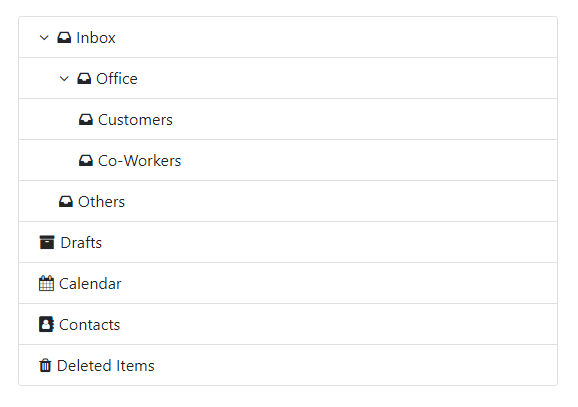
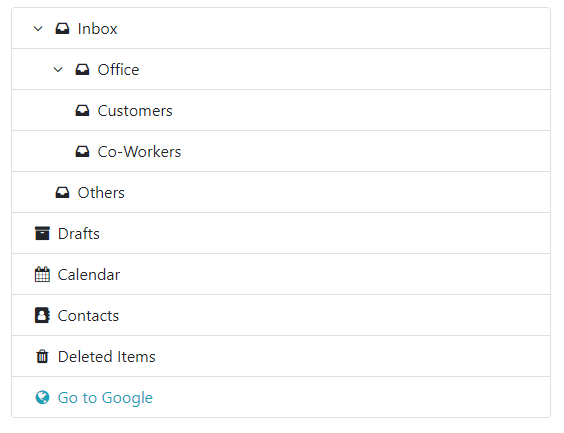
Version 1.2.0

Changed region(s): [[0.0603, 0.2359, 0.3316, 0.855], [0.0301, 0.8845, 0.9645, 0.973], [0.0603, 0.0295, 0.2411, 0.2064]]

diff --git a/dist/js/bstreeview.min.js b/dist/js/bstreeview.min.js
@@ -1,14 +1,10 @@
 /*
  @preserve
  bstreeview.js
- Version: 1.0.0
+ Version: 1.2.0
  Authors: Sami CHNITER <sami.chniter@gmail.com>
  Copyright 2020
  License: Apache License 2.0
-
  Project: https://github.com/chniter/bstreeview
 */
-(function(a,m,n,p){function g(b,f){this.element=b;this.itemIdPrefix=b.id+"-item-";this.settings=a.extend({},l,f);this.init()}var l={expandIcon:"fa fa-angle-down",collapseIcon:"fa fa-angle-right",indent:1.25};a.extend(g.prototype,{init:function(){this.tree=[];this.nodes=[];this.settings.data&&(this.settings.data=a.parseJSON(this.settings.data),this.tree=a.extend(!0,[],this.settings.data),delete this.settings.data);a(this.element).addClass("bstreeview");this.initData({nodes:this.tree});var b=this;this.build(a(this.element),
-this.tree,0);a(".bstreeview").on("click",".list-group-item",function(){a(".state-icon",this).toggleClass(b.settings.expandIcon).toggleClass(b.settings.collapseIcon)})},initData:function(b){if(b.nodes){var f=this;a.each(b.nodes,function(a,c){c.nodeId=f.nodes.length;c.parentId=b.nodeId;f.nodes.push(c);c.nodes&&f.initData(c)})}},build:function(b,f,h){var c=this,g="1.25rem;";0<h&&(g=(c.settings.indent+h*c.settings.indent).toString()+"rem;");h+=1;a.each(f,function(f,d){var e=a('<div href="#itemid" class="list-group-item" data-toggle="collapse"></div>').attr("href",
-"#"+c.itemIdPrefix+d.nodeId).attr("style","padding-left:"+g);if(d.nodes){var k=a('<i class="state-icon"></i>').addClass(c.settings.collapseIcon);e.append(k)}d.icon&&(k=a('<i class="item-icon"></i>').addClass(d.icon),e.append(k));e.append(d.text);d.href&&e.attr("href",d.href);d["class"]&&e.addClass(d["class"]);b.append(e);d.nodes&&(e=a('<div class="list-group collapse" id="itemid"></div>').attr("id",c.itemIdPrefix+d.nodeId),b.append(e),c.build(e,d.nodes,h))})}});a.fn.bstreeview=function(b){return this.each(function(){a.data(this,
-"plugin_bstreeview")||a.data(this,"plugin_bstreeview",new g(this,b))})}})(jQuery,window,document);
+!function (t, e, i, s) { "use strict"; var n = { expandIcon: "fa fa-angle-down fa-fw", collapseIcon: "fa fa-angle-right fa-fw", indent: 1.25, parentsMarginLeft: "1.25rem", openNodeLinkOnNewTab: !0 }, a = '<div role="treeitem" class="list-group-item" data-toggle="collapse"></div>', d = '<div role="group" class="list-group collapse" id="itemid"></div>', o = '<i class="state-icon"></i>', r = '<i class="item-icon"></i>'; function l(e, i) { this.element = e, this.itemIdPrefix = e.id + "-item-", this.settings = t.extend({}, n, i), this.init() } t.extend(l.prototype, { init: function () { this.tree = [], this.nodes = [], this.settings.data && (this.settings.data.isPrototypeOf(String) && (this.settings.data = t.parseJSON(this.settings.data)), this.tree = t.extend(!0, [], this.settings.data), delete this.settings.data), t(this.element).addClass("bstreeview"), this.initData({ nodes: this.tree }); var i = this; this.build(t(this.element), this.tree, 0), t(this.element).on("click", ".list-group-item", function (s) { t(".state-icon", this).toggleClass(i.settings.expandIcon).toggleClass(i.settings.collapseIcon), s.target.hasAttribute("href") && (i.settings.openNodeLinkOnNewTab ? e.open(s.target.getAttribute("href"), "_blank") : e.location = s.target.getAttribute("href")) }) }, initData: function (e) { if (e.nodes) { var i = e, s = this; t.each(e.nodes, function (t, e) { e.nodeId = s.nodes.length, e.parentId = i.nodeId, s.nodes.push(e), e.nodes && s.initData(e) }) } }, build: function (e, i, s) { var n = this, l = n.settings.parentsMarginLeft; s > 0 && (l = (n.settings.indent + s * n.settings.indent).toString() + "rem;"), s += 1, t.each(i, function (i, g) { var h = t(a).attr("data-target", "#" + n.itemIdPrefix + g.nodeId).attr("style", "padding-left:" + l).attr("aria-level", s); if (g.nodes) { var c = t(o).addClass(n.settings.collapseIcon); h.append(c) } if (g.icon) { var f = t(r).addClass(g.icon); h.append(f) } if (h.append(g.text), g.href && h.attr("href", g.href), g.class && h.addClass(g.class), g.id && h.attr("id", g.id), e.append(h), g.nodes) { var p = t(d).attr("id", n.itemIdPrefix + g.nodeId); e.append(p), n.build(p, g.nodes, s) } }) } }), t.fn.bstreeview = function (e) { return this.each(function () { t.data(this, "plugin_bstreeview") || t.data(this, "plugin_bstreeview", new l(this, e)) }) } }(jQuery, window, document);

diff --git a/src/js/bstreeview.js b/src/js/bstreeview.js
@@ -1,6 +1,6 @@
 /*! @preserve
  * bstreeview.js
- * Version: 1.0.0
+ * Version: 1.2.0
  * Authors: Sami CHNITER <sami.chniter@gmail.com>
  * Copyright 2020
  * License: Apache License 2.0
@@ -14,17 +14,20 @@
      */
     var pluginName = "bstreeview",
         defaults = {
-            expandIcon: 'fa fa-angle-down',
-            collapseIcon: 'fa fa-angle-right',
-            indent: 1.25
+            expandIcon: 'fa fa-angle-down fa-fw',
+            collapseIcon: 'fa fa-angle-right fa-fw',
+            indent: 1.25,
+            parentsMarginLeft: '1.25rem',
+            openNodeLinkOnNewTab: true
+
         };
     /**
      * bstreeview HTML templates.
      */
     var templates = {
         treeview: '<div class="bstreeview"></div>',
-        treeviewItem: '<div href="#itemid" class="list-group-item" data-toggle="collapse"></div>',
-        treeviewGroupItem: '<div class="list-group collapse" id="itemid"></div>',
+        treeviewItem: '<div role="treeitem" class="list-group-item" data-toggle="collapse"></div>',
+        treeviewGroupItem: '<div role="group" class="list-group collapse" id="itemid"></div>',
         treeviewItemStateIcon: '<i class="state-icon"></i>',
         treeviewItemIcon: '<i class="item-icon"></i>'
     };
@@ -64,10 +67,19 @@
             var _this = this;
             this.build($(this.element), this.tree, 0);
             // Update angle icon on collapse
-            $(this.element).on('click', '.list-group-item', function () {
+            $(this.element).on('click', '.list-group-item', function (e) {
                 $('.state-icon', this)
                     .toggleClass(_this.settings.expandIcon)
                     .toggleClass(_this.settings.collapseIcon);
+                // navigate to href if present
+                if (e.target.hasAttribute('href')) {
+                    if (_this.settings.openNodeLinkOnNewTab) {
+                        window.open(e.target.getAttribute('href'), '_blank');
+                    }
+                    else {
+                        window.location = e.target.getAttribute('href');
+                    }
+                }
             });
         },
         /**
@@ -98,7 +110,8 @@
         build: function (parentElement, nodes, depth) {
             var _this = this;
             // Calculate item padding.
-            var leftPadding = "1.25rem;";
+            var leftPadding = _this.settings.parentsMarginLeft;
+
             if (depth > 0) {
                 leftPadding = (_this.settings.indent + depth * _this.settings.indent).toString() + "rem;";
             }
@@ -107,8 +120,9 @@
             $.each(nodes, function addNodes(id, node) {
                 // Main node element.
                 var treeItem = $(templates.treeviewItem)
-                    .attr('href', "#" + _this.itemIdPrefix + node.nodeId)
-                    .attr('style', 'padding-left:' + leftPadding);
+                    .attr('data-target', "#" + _this.itemIdPrefix + node.nodeId)
+                    .attr('style', 'padding-left:' + leftPadding)
+                    .attr('aria-level', depth);
                 // Set Expand and Collapse icones.
                 if (node.nodes) {
                     var treeItemStateIcon = $(templates.treeviewItemStateIcon)
@@ -123,17 +137,18 @@
                 }
                 // Set node Text.
                 treeItem.append(node.text);
-
                 // Reset node href if present
                 if (node.href) {
                     treeItem.attr('href', node.href);
                 }
-
                 // Add class to node if present
                 if (node.class) {
                     treeItem.addClass(node.class);
                 }
-
+                // Add custom id to node if present
+                if (node.id) {
+                    treeItem.attr('id', node.id);
+                }
                 // Attach node to parent.
                 parentElement.append(treeItem);
                 // Build child nodes.

diff --git a/src/index.html b/src/index.html
@@ -1,10 +1,13 @@
-<html>
-
+<!doctype html>
+<html lang="en">
 <head>
+	<meta charset="utf-8">
+	<meta name="viewport" content="width=device-width, initial-scale=1, shrink-to-fit=no">
+	<title>bstreeview</title>
 	<link href="https://stackpath.bootstrapcdn.com/bootstrap/4.4.1/css/bootstrap.min.css" rel="stylesheet"
-		integrity="sha384-Vkoo8x4CGsO3+Hhxv8T/Q5PaXtkKtu6ug5TOeNV6gBiFeWPGFN9MuhOf23Q9Ifjh" crossorigin="anonymous">
+		  integrity="sha384-Vkoo8x4CGsO3+Hhxv8T/Q5PaXtkKtu6ug5TOeNV6gBiFeWPGFN9MuhOf23Q9Ifjh" crossorigin="anonymous">
 	<link href="https://stackpath.bootstrapcdn.com/font-awesome/4.7.0/css/font-awesome.min.css" rel="stylesheet"
-		integrity="sha384-wvfXpqpZZVQGK6TAh5PVlGOfQNHSoD2xbE+QkPxCAFlNEevoEH3Sl0sibVcOQVnN" crossorigin="anonymous">
+		  integrity="sha384-wvfXpqpZZVQGK6TAh5PVlGOfQNHSoD2xbE+QkPxCAFlNEevoEH3Sl0sibVcOQVnN" crossorigin="anonymous">
 	<link href="css/bstreeview.css" rel="stylesheet">
 </head>
 
@@ -21,10 +24,10 @@
 		</div>
 	</div>
 	<script src="https://code.jquery.com/jquery-3.4.1.min.js"
-		integrity="sha256-CSXorXvZcTkaix6Yvo6HppcZGetbYMGWSFlBw8HfCJo=" crossorigin="anonymous"></script>
+			integrity="sha256-CSXorXvZcTkaix6Yvo6HppcZGetbYMGWSFlBw8HfCJo=" crossorigin="anonymous"></script>
 	<script src="https://stackpath.bootstrapcdn.com/bootstrap/4.4.1/js/bootstrap.min.js"
-		integrity="sha384-wfSDF2E50Y2D1uUdj0O3uMBJnjuUD4Ih7YwaYd1iqfktj0Uod8GCExl3Og8ifwB6"
-		crossorigin="anonymous"></script>
+			integrity="sha384-wfSDF2E50Y2D1uUdj0O3uMBJnjuUD4Ih7YwaYd1iqfktj0Uod8GCExl3Og8ifwB6"
+			crossorigin="anonymous"></script>
 
 	<script src="js/bstreeview.js">
 	</script>
@@ -34,48 +37,60 @@
 			var json = [
 				{
 					text: "Inbox",
-					icon: "fa fa-inbox",
+					icon: "fa fa-inbox fa-fw",
 					nodes: [
 						{
 							text: "Office",
-							icon: "fa fa-inbox",
+							icon: "fa fa-inbox fa-fw",
 							nodes: [
 								{
-									icon: "fa fa-inbox",
+									icon: "fa fa-inbox fa-fw",
 									text: "Customers"
 								},
 								{
-									icon: "fa fa-inbox",
+									icon: "fa fa-inbox fa-fw",
 									text: "Co-Workers"
 								}
 							]
 						},
 						{
-							icon: "fa fa-inbox",
+							icon: "fa fa-inbox fa-fw",
 							text: "Others"
 						}
 					]
 				},
 				{
-					icon: "fa fa-archive",
+					icon: "fa fa-archive fa-fw",
 					text: "Drafts"
 				},
 				{
-					icon: "fa fa-calendar",
+					icon: "fa fa-calendar fa-fw",
 					text: "Calendar"
 				},
 				{
-					icon: "fa fa-address-book",
+					icon: "fa fa-address-book fa-fw",
 					text: "Contacts"
 				},
 				{
-					icon: "fa fa-trash",
+					icon: "fa fa-trash fa-fw",
 					text: "Deleted Items"
-				}
+				},
+                {
+                    icon: "fa fa-globe fa-fw",
+					text: "Go to Google",
+                    class: "text-info",
+                    href: "https://google.com"
+                }
 			];
 
-			$('#tree').bstreeview({ data: json });
-
+			$('#tree').bstreeview({
+				data: json,
+                expandIcon: 'fa fa-angle-down fa-fw',
+                collapseIcon: 'fa fa-angle-right fa-fw',
+                indent: 1.25,
+                parentsMarginLeft: '1.25rem',
+                openNodeLinkOnNewTab: true
+			});
 		});
 	</script>
 </body>

diff --git a/dist/css/bstreeview.min.css b/dist/css/bstreeview.min.css
@@ -1,1 +1,10 @@
- .bstreeview{position:relative;display:-ms-flexbox;display:flex;-ms-flex-direction:column;flex-direction:column;min-width:0;word-wrap:break-word;background-color:#fff;background-clip:border-box;border:1px solid rgba(0,0,0,.125);border-radius:.25rem;padding:0;overflow:hidden}.bstreeview .list-group{margin-bottom:0}.bstreeview .list-group-item{border-radius:0;border-width:1px 0 0 0;padding-top:.5rem;padding-bottom:.5rem;cursor:pointer}.bstreeview .list-group-item:hover{background-color:#dee2e6}.bstreeview>.list-group-item:first-child{border-top-width:0}.bstreeview .state-icon{margin-right:8px}.bstreeview .item-icon{margin-right:5px}
+/*
+ @preserve
+ bstreeview.css
+ Version: 1.2.0
+ Authors: Sami CHNITER <sami.chniter@gmail.com>
+ Copyright 2020
+ License: Apache License 2.0
+ Project: https://github.com/chniter/bstreeview
+*/
+.bstreeview{position:relative;display:-ms-flexbox;display:flex;-ms-flex-direction:column;flex-direction:column;min-width:0;word-wrap:break-word;background-color:#fff;background-clip:border-box;border:1px solid rgba(0,0,0,.125);border-radius:.25rem;padding:0;overflow:hidden}.bstreeview .list-group{margin-bottom:0}.bstreeview .list-group-item{border-radius:0;border-width:1px 0 0 0;padding-top:.5rem;padding-bottom:.5rem;cursor:pointer}.bstreeview .list-group-item:hover{background-color:#dee2e6}.bstreeview>.list-group-item:first-child{border-top-width:0}.bstreeview .state-icon{margin-right:8px}.bstreeview .item-icon{margin-right:5px}

diff --git a/src/css/bstreeview.css b/src/css/bstreeview.css
@@ -1,3 +1,12 @@
+/*
+ @preserve
+ bstreeview.css
+ Version: 1.2.0
+ Authors: Sami CHNITER <sami.chniter@gmail.com>
+ Copyright 2020
+ License: Apache License 2.0
+ Project: https://github.com/chniter/bstreeview
+*/
 .bstreeview {
     position: relative;
     display: -ms-flexbox;

diff --git a/README.md b/README.md
@@ -78,10 +78,11 @@ var tree = [
         icon: "fa fa-folder",
         nodes: [
           {
+            id:    "sub-node-1",
             text:  "Sub Child Node 1",
             icon:  "fa fa-folder",
             class: "nav-level-3",
-            href:  "#option/1.1.1"
+            href:  "https://google.com"
           },
           {
             text: "Sub Child Node 2",
@@ -122,13 +123,6 @@ This property `text` is required to display nodes.
 }
 ```
 
-Yes, we can make some options for bstreeview, i will explain them later :p
-
-```javascript
-{
-  
-```
-
 ### Node Properties
 
 #### text
@@ -151,14 +145,52 @@ A custom `href` attribute value for a given node.
 
 A class name or space separated list of class names to add to a given node.
 
+#### id
+`String` `Optional`
 
+ID attribute value to assign to a given node.
 
 ## Options
+
+#### data
+`String` `Mandatory`
+
+Json or string array of nodes.
+
+#### expandIcon
+`String` `Optional`
+
+Expand icon class name, default is `fa fa-angle-down fa-fw`.
+
+#### collapseIcon
+`String` `Optional`
+
+Collapse icon class name, default is `fa fa-angle-right fa-fw`.
+
+#### indent
+`number with decimals` `Optional`
+
+Custom indent between node levels (rem), default is `1.25`.
+
+#### parentsMarginLeft
+`String` `Optional`
+
+margin-left value of parent nodes, default is `1.25rem`.
+
+#### openNodeLinkOnNewTab
+`Boolean` `Optional`
+
+Open node link on new browser Tab, default is `true`.
 
 ```javascript
 // Example: initializing the bstreeview
 $('#tree').treeview({
-  data: data         // data is required
+  data: data,
+  expandIcon: 'fa fa-angle-down fa-fw',
+  collapseIcon: 'fa fa-angle-right fa-fw',
+  indent: 1.25,
+  parentsMarginLeft: '1.25rem',
+  openNodeLinkOnNewTab: true
 });
 ```
 
